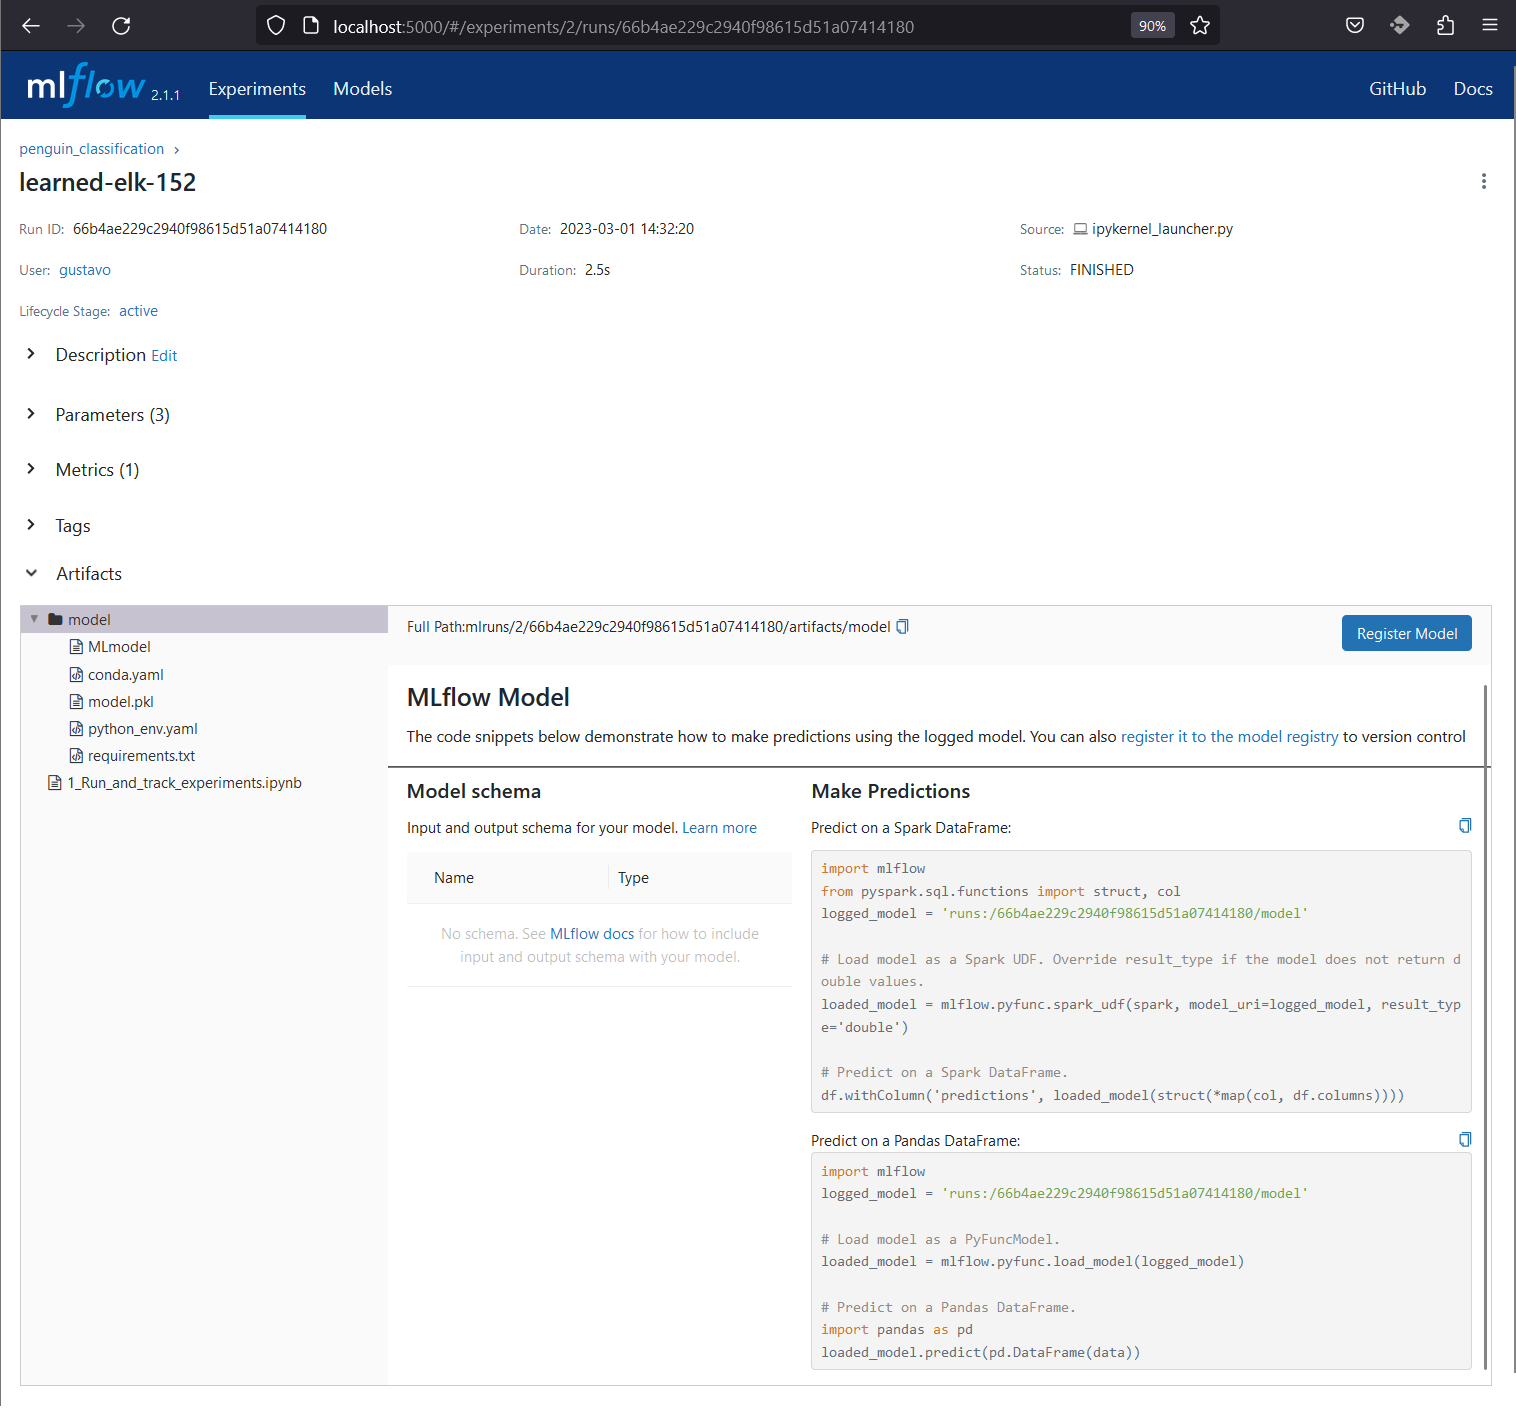
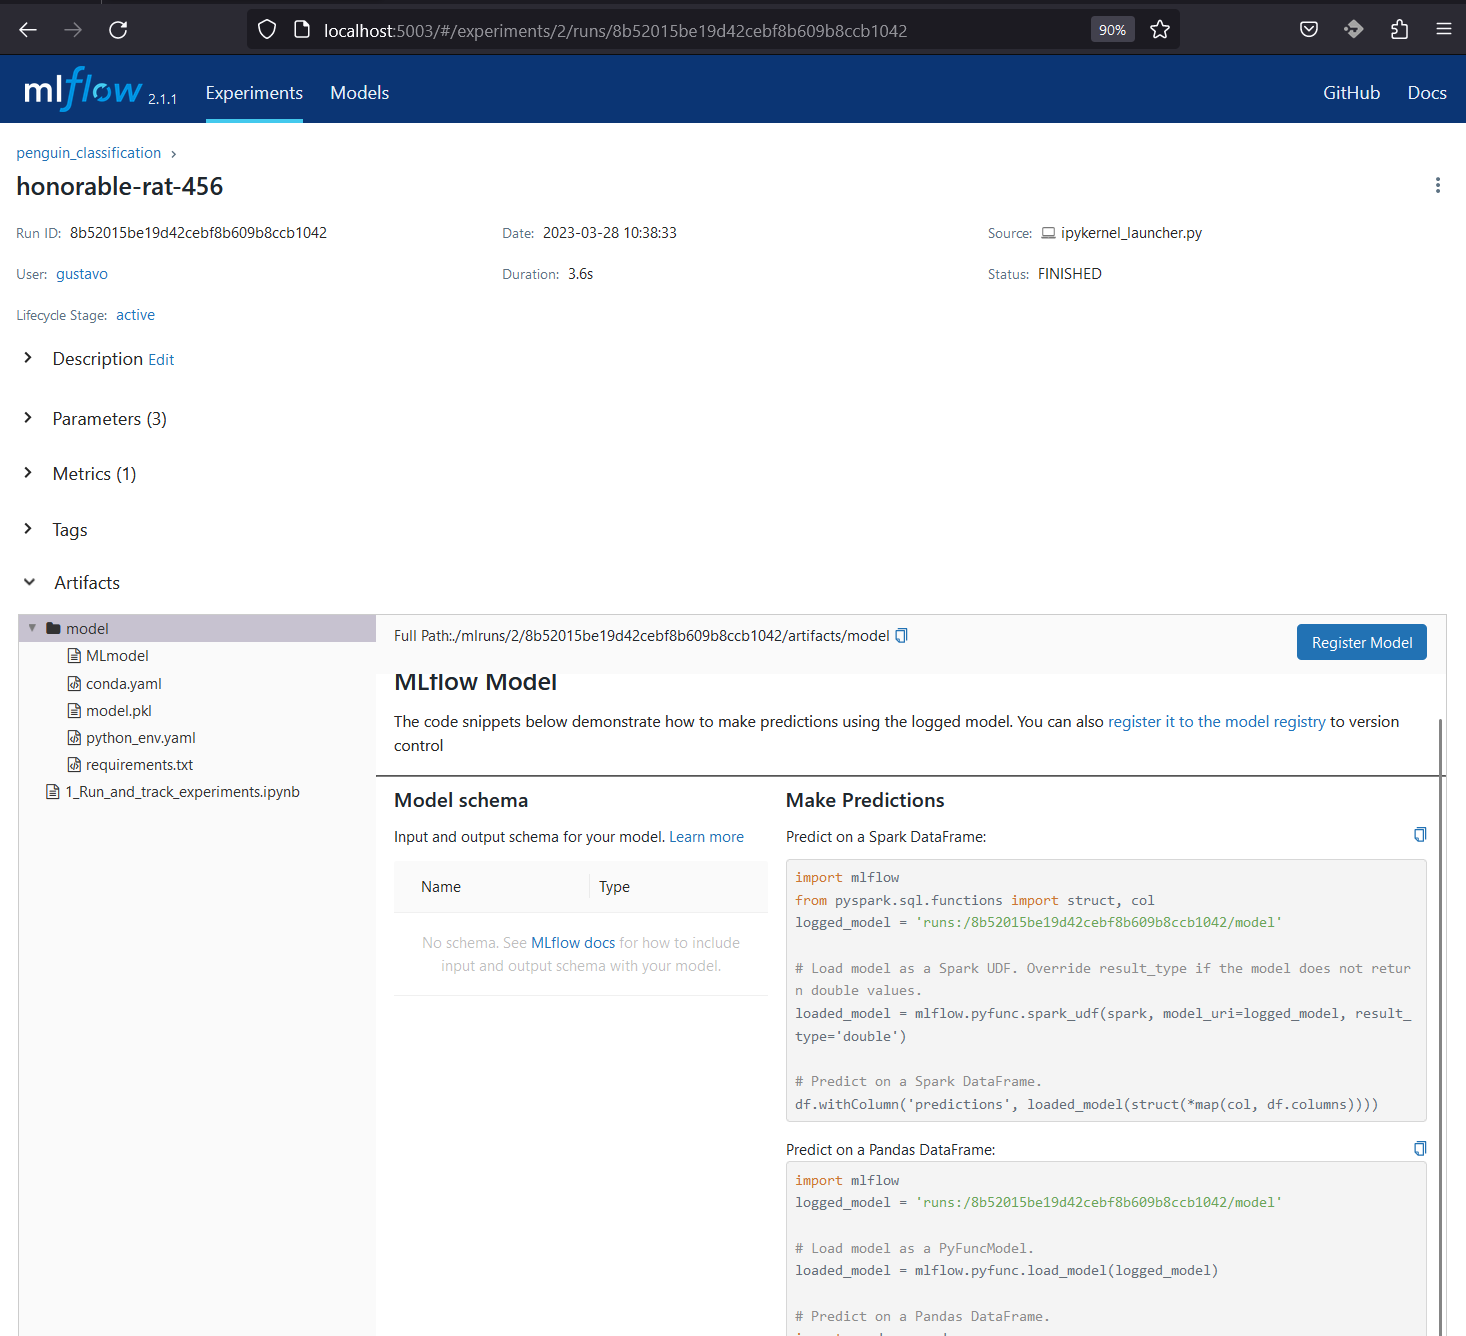
Improved section 5.1 and added section 5.2 Tracking training code and model with MLflow

Changed region(s): [[0.0, 0.0, 1.0, 1.0], [0.6753, 0.1534, 0.8288, 0.2148], [0.3377, 0.1534, 0.4604, 0.2148]]

diff --git a/2_MLFlow_Backend_and_Artifact_Storage_Scenarios_1_2_and_3/README.md b/2_MLFlow_Backend_and_Artifact_Storage_Scenarios_1_2_and_3/README.md
@@ -16,6 +16,7 @@
   - [4.3 The 'quickstart' example  under Scenario 3b](./README.md#43-the-quickstart-example-under-scenario-3b)
 - [5. Execute the 'Palmer pinguins' example under Scenario 3b](./README.md#5-execute-the-palmer-pinguins-example-under-scenario-3b)
   - [5.1 Notebook 1_Run_and_track_experiments.ipynb](./README.md#51-notebook-1_run_and_track_experimentsipynb)
+  - [5.2 Tracking training code and model with MLflow.](./README.md#52-tracking-training-code-and-model-with-mlflow)
 - [6. Summary](./README.md#7-summary)
 
 You can access the article code on the following GitHub repository:
@@ -613,6 +614,14 @@ Artifacts in 'examples/quickstart/outputs' tracked!
 Temporal directory 'examples/quickstart/outputs' has been removed successfully
 ```
 
+Have a look at the **'MLflow UI server'** to see how it played out!
+
+<img src='./examples/quickstart/img/mlflow_ui_quickstart_scenario3_runs_list.png' alt='' width='1000'>
+
+<img src='./examples/quickstart/img/mlflow_ui_quickstart_scenario3_first_run_details.png' alt='' width='1000'>
+
+Once again, we have managed to track parameters, metrics and a dummy artifact 'test.txt'.
+
 ## 5. Execute the 'Palmer pinguins' example under Scenario 3b
 [Go to Index](#2-mlflow-backend-and-artifact-storage-scenarios-1-2-and-3)
 
@@ -625,51 +634,109 @@ Data were collected and made available by Dr. Kristen Gorman and the Palmer Stat
 ### **5.1 Notebook `1_Run_and_track_experiments.ipynb`**
 [Go to Index](#2-mlflow-backend-and-artifact-storage-scenarios-1-2-and-3)
 
-Open the following notebook:
+Open and run all cells in the following notebook:
 
 [./examples/palmer_pinguins/notebooks/1_Run_and_track_experiments.ipynb](./examples/palmer_pinguins/notebooks/1_Run_and_track_experiments.ipynb)
 
-and execute it. You will have:
+The instrumented training code used for the last run in this notebook is as follows:
+
+```python
+mlflow.set_experiment(exp_name)                                                                    # <-- Set the experiment we want to track to
+
+with mlflow.start_run() as run:                                                                    # <-- Start a run of the experiment
+    print(f"Started run {run.info.run_id}")
+    # Load dataset
+    print("Load dataset...")
+    culmen_columns = ["Culmen Length (mm)", "Culmen Depth (mm)"]
+    target_column = "Species"
+
+    data_path = "../data/penguins_classification.csv"
+    data = pd.read_csv(data_path)
+    mlflow.log_param("num_samples", data.shape[0])                                                 # <-- Track the number of samples in the dataset
+
+    # Prepare a train-test-split
+    print("Prepare a train-test-split...")
+    data, target = data[culmen_columns], data[target_column]
+    data_train, data_test, target_train, target_test = train_test_split(
+        data, target, random_state=0)
+
+    # Initialize and fit a classifier
+    max_depth = 3
+    max_leaf_nodes = 4
+    print(f"Initialize and fit a DecisionTreeClassifier with max_depth={max_depth}, max_leaf_nodes{max_leaf_nodes}")
+
+    mlflow.log_params(                                                                             # <-- Track parameters
+        {"max_depth": max_depth,
+         "max_leaf_nodes": max_leaf_nodes}
+    )
+    tree = DecisionTreeClassifier(
+        max_depth=max_depth,
+        max_leaf_nodes=max_leaf_nodes
+    )
+    tree.fit(data_train, target_train)
+
+    # Calculate test scores
+    test_score = tree.score(data_test, target_test)
+    mlflow.log_metric("test_accuracy", test_score)                                                 # <-- Track metrics
+    print(f"Result: Accuracy of the DecisionTreeClassifier: {test_score:.1%}")
+
+    # Track artifacts
+    os.chdir("../../../mlflow")                                                                    # Change the current working directory to the same path the tracking server was executed:
+    print(f"Current working directory temporaly moved to: {os.getcwd()}")
+
+    mlflow.log_artifact("../examples/palmer_pinguins/notebooks/1_Run_and_track_experiments.ipynb") # <-- Track the source code of the notebook
+    print(f"Notebook '1_Run_and_track_experiments.ipynb' stored in: {run.info.artifact_uri}")
+
+    # Log the model
+    mlflow.sklearn.log_model(tree, "model")                                                        # <-- Log the model
+    print(f"Model stored in: {run.info.artifact_uri}/model")
+
+    os.chdir("../examples/palmer_pinguins/notebooks")                                              # Change the current working directory to its original position
+    print(f"Current working directory: {os.getcwd()}")
+```
+
+### **5.2 Tracking training code and model with MLflow**
+[Go to Index](#2-mlflow-backend-and-artifact-storage-scenarios-1-2-and-3)
+
+After executing it completely, move to **terminal 1** an type `tree mlflow`. You will have the following folder structure:
 
 ```bash
-tree .
-.
-├── README.md
+$ tree mlflow
+mlflow
+├── ...
 ├── examples
-│   ├── palmer_pinguins
-│   │   ├── data
-│   │   │   └── penguins_classification.csv
-│   │   ├── notebooks
-│   │   │   ├── 1_Run_and_track_experiments.ipynb
-│   │   │   ├── 2_Deploy_and_manage.ipynb
-│   │   │   └── 3_Tips_and_tricks.ipynb
-│   │   └── resources
-│   │       ├── culmen_depth.png
-│   │       ├── mlflow_ui_pinguins_experiment_first_run_details.png
-│   │       ├── mlflow_ui_pinguins_experiment_runs_list.png
-│   │       ├── palmer_penguins.png
-│   │       └── tracking_setup.png
-│   └── quickstart
-│       ├── mlflow_tracking.py
-│       └── outputs
-│           └── test.txt
+│   └── quickstart
 ├── mflow.db
-└── mlruns
-    ├── 1
-    │   └── 2f4534550a1c41188a94dd99d7035923
-    │       └── artifacts
-    │           └── test.txt
-    └── 2
-        └── 0e316a57136a4e6d878ec53a7a78f18e
-            └── artifacts
-                └── 1_Run_and_track_experiments.ipynb
+├── mlruns
+│   ├── 1
+│   │   └── 001d3acc26f64968ab1901578f65cfeb
+│   │       └── artifacts
+│   │           └── test.txt
+│   └── 2
+│       ├── 1720bf243bfe45e09d006afc1d4659d3
+│       │   └── artifacts
+│       │       └── 1_Run_and_track_experiments.ipynb
+│       └── 8b52015be19d42cebf8b609b8ccb1042
+│           └── artifacts
+│               ├── 1_Run_and_track_experiments.ipynb
+│               └── model
+│                   ├── MLmodel
+│                   ├── conda.yaml
+│                   ├── model.pkl
+│                   ├── python_env.yaml
+│                   └── requirements.txt
+└── requirements.txt
 ```
+
+In the notebook we have executed three runs. Only the two last produced artifacts, which were registered under the folder `.\mlflow\mlruns\2\`.
 
 Have a look at the tracking UI to see how it played out!
 
-<img src='./examples/palmer_pinguins/img/mlflow_ui_pinguins_experiment_runs_list_2.png' alt='' width='1000'>
+<img src='./examples/palmer_pinguins/img/mlflow_ui_pinguins_experiment_runs_list_3_with_model.png' alt='' width='1000'>
 
-<img src='./examples/palmer_pinguins/img/mlflow_ui_pinguins_experiment_first_run_details_2.png' alt='' width='1000'>
+Observe how in this final example, we have tracked not only parameters and metrics, but the notebook itself that produced the tracked metric, as well as the trained model produced by the run.
+
+<img src='./examples/palmer_pinguins/img/mlflow_ui_pinguins_experiment_run_details_3_with_model.png' alt='' width='1000'>
 
 
 ## 7. Summary
@@ -683,6 +750,6 @@ Moving on to **Scenario 2**, the guide demonstrates how to set up the MLflow Cli
 
 **Scenario 3** covers the setup of the **MLflow Client and Server tracking pair**. Both the 'Backend store' and 'Artifacts store' are configured locally, and a new local MLFlow Tracking server is launched. Under Scenario 3b, the guide again provides the 'quickstart' example.
 
-**Finally**, we show how to execute the **'Palmer penguins' example under Scenario 3b** using `Notebook 1_Run_and_track_experiments.ipynb`.
+**Finally**, we show how to execute the **'Palmer penguins' example under Scenario 3b** using `Notebook 1_Run_and_track_experiments.ipynb`. In this final example, we have tracked not only parameters and metrics, but the notebook itself that produced the tracked metric, as well as the trained model produced by the run.
 
 In the next issue we will explain how to dockerize the tracking server we used for Scenario 3b.

diff --git a/README.md b/README.md
@@ -34,4 +34,5 @@
         - [4.3 The 'quickstart' example  under Scenario 3b](./2_MLFlow_Backend_and_Artifact_Storage_Scenarios_1_2_and_3/README.md#43-the-quickstart-example-under-scenario-3b)
     - [5. Execute the 'Palmer pinguins' example under Scenario 3b](./2_MLFlow_Backend_and_Artifact_Storage_Scenarios_1_2_and_3/README.md#5-execute-the-palmer-pinguins-example-under-scenario-3b)
         - [5.1 Notebook 1_Run_and_track_experiments.ipynb](./2_MLFlow_Backend_and_Artifact_Storage_Scenarios_1_2_and_3/README.md#51-notebook-1_run_and_track_experimentsipynb)
+        - [5.2 Tracking training code and model with MLflow.](./2_MLFlow_Backend_and_Artifact_Storage_Scenarios_1_2_and_3/README.md#52-tracking-training-code-and-model-with-mlflow)
     - [6. Summary](./2_MLFlow_Backend_and_Artifact_Storage_Scenarios_1_2_and_3/README.md#7-summary)
